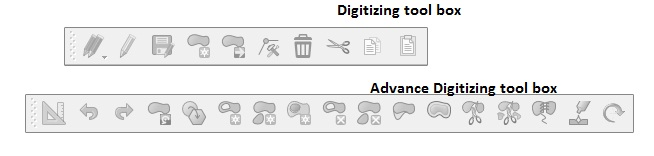
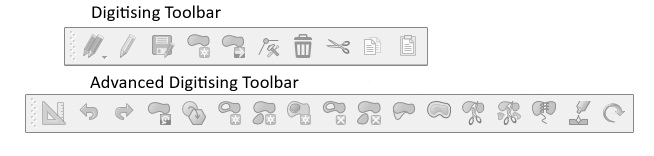
update to module 3 digitisation subchapter

diff --git a/content/Modul_3/en_qgis_digitalisation.md b/content/Modul_3/en_qgis_digitalisation.md
@@ -1,7 +1,5 @@
 # Digitisation
 
-
-
 __🔙[Back to Homepage](/content/intro.md)__
 
 
@@ -30,50 +28,88 @@ digitization, enabling further analysis and integration with other geospatial da
 a valuable asset for spatial analysis and mapping.
 
 :::{card}
-### Real world Scenario
+__Real world Scenario__
 
+There has been a flood in a village following heavy rains. 
 There is a flood relief operation in a village. To assess the needs of the household and the impact on the 
 infrastructure, you are tasked to make an overview map of the region and mark the flood impacted buildings and 
 roads. However, there are no datasets with the buildings or roads available. For the map, you will have to 
-create two new layers with the road network and the buildings. 
+create two new layers with the road network and the buildings. However, there is recent satellite imagery available. With these images, you can create vector layers representing the key infrastructure, such as buildings and roads. Once you have created the layers, you can create a preliminary overview map of the village. This map will be given out to community members and voluntaries on the ground to map out the damaged infrastructure. This information can subsequently be used to enrich the data and create an flood impact assessement map. 
+
+<!--ADD PICTURES-->
 
 :::
 
+:::{card} 
+__Real World Scenario__
+
+The first thing you do is locate the village using GPS-coordinates that you enter in the bottom right corner of 
+the QGIS window. 
+Thankfully, the process of digitising is relatively easy since there is a recent satellite image provided by 
+Microsoft Bing. You can load the satellite image using the __QuickMapServices__ and searching and adding the 
+`Bing Aerial` Basemap. 
+You can see the buildings and roads on the satellite image. The next step will be to create new layers: one for 
+the roads and one for the buildings.
+
+:::
+
+:::{card}
+
+__Real World Scenario__
+
+With the new layers, you are ready to trace the buildings and roads in the new layers. 
+You already have some knowledge about the condition of the roads (e.g., the road surface, quality, and if it is 
+flooded) and the condition of the houses (e.g., if it is affected by a flood, if it has multiple stories, ...). 
+This is useful information that can be stored in the additional attributes in the data table. 
+
+<!--INSERT: Picture of this step-->
+
+:::
 
 ### Digitisation toolbars
+
+```{figure} /fig/Activate_digitizing_toolbox.png
+---
+width: 300px
+align: left
+name: Activate digitising Toolbar 
+---
+The Digitisation Toolbar in QGIS 3.36.
+```
+
+
 
 Digitising is done with the `Digitizing Toolbar` and on the map canvas. 
 First, you need to check if the `Digitizing Toolbar` is activated. To do that 
 * Click on the `View` tab in the menu bar and click `Toolbars`. Check if the `Digitizing` and `Advanced Digitizing` toolbar is activated.
 
-::::{grid} 2
-:::{grid-item-card}  Activate `Digitizing Toolbox`
+
 First, you need to check if the `Digitizing Toolbox` is activated. To do that 
 1.  Click on the `View` tab in the menu bar and click `Toolbars`. Check if the `Digitizing` and `Advanced Digitizing` toolbox is activated.
 
-2. A tool box like this should appear on top of the QGIS interface
- 
- ![](/fig/Toolbox.png)
- 
-:::
-:::{grid-item-card} How to: 
 
-```{figure} /fig/Activate_digitizing_toolbox.png
----
-width: 300px
-name: 
-align: center
-name: Activate digitising Toolbar 
----
-The Digitisation Toolbar in QGIS 3.36.
-```
-:::
-::::
+2. A tool box like this should appear on top of the QGIS interface
+
+<br>
+
+<br>  
+
+<br>  
+
 
 The digitisation toolbar offers the basic tools to create, save, and edit features. However, for everything that 
-goes above just creating new features and deleting features, the Advanced Digitalization toolbar is needed. 
+goes above just creating new features and deleting features, the Advanced Digitalization toolbar is needed (see {numref}`digitising_toolbar`). 
 The Advanced Digitalization toolbar allows you to move features, delete parts of features, and much more. All 
 functions are listed in the two tables below.
+
+```{figure} /fig/Toolbox.png
+---
+width: 700 px
+name: digitising_toolbar
+align: center
+---
+Digitizing Toolbar in QGIS 3.36
+```
 
 :::{dropdown} Digitalization Toolbar
 |Tool|Purpose|Tool|Purpose|
@@ -112,30 +148,30 @@ functions are listed in the two tables below.
 :::
 
 
-:::{card} 
-### Real World Scenario
-
-The first thing you do is locate the village using GPS-coordinates that you enter in the bottom right corner of 
-the QGIS window. 
-Thankfully, the process of digitising is relatively easy since there is a recent satellite image provided by 
-Microsoft Bing. You can load the satellite image using the __QuickMapServices__ and searching and adding the 
-`Bing Aerial` Basemap. 
-You can see the buildings and roads on the satellite image. The next step will be to create new layers: one for 
-the roads and one for the buildings.
-
-:::
-
 ## Creating new datasets
 
 To digitise new data, you always have to start with creating the dataset before filling it with digitised data. 
 Keep in mind that one layer can only contain one type of geometry: either points, lines, or polygons. When you 
 create a dataset, you will have to choose the type of geometry. Additionally, you can add further columns with 
-attributes to add more data to the data table. Further information can be...
+attributes to add more data to the data table. 
+
+:::{admonition} Now it's your turn!
+:class: note
+
+Think of a spatial dataset you could need in your humanitarian operations. What kind of additional information is 
+useful? How would you collect it? This could range from type of road, crops planted, type of vegetation or social 
+indicators. You can discuss in groups and write it down on paper or add it to a digital whiteboard. 
+
+<!--Insert graphic-->
+
+:::
+
 <!--ADD meaningful example for IM-->
 
-:::{card} 
-### Video: How to create a new layer
+:::{dropdown} Video: How to create a new dataset
+
 <video width="100%" controls src="https://github.com/GIScience/gis-training-resource-center/raw/main/fig/qgis_create_layer.mp4"></video>
+
 :::
 
 1. `Layer` --> `Create Layer` -> `New GeoPackage Layer` or `New Shapefile Layer`
@@ -146,21 +182,24 @@ attributes to add more data to the data table. Further information can be...
 6. CRS dropdown: Select the EPSG/CRS you want to set for the new layer. By default, the QGIS selects the project CRS. If you want to change the CRS click on ![](/fig/mIconProjectionEnabled.png).
 7. Under `New Field` you can add columns to the new layer. Here you can set up what other type of data you want to collect in this dataset.
     * `Type`: Select the data type the column will have e.g. `Text`, `Whole number`, `Decimal Number`, `Date`.
-    ```{Note} 
-    The number of options depends on the data format the layer will have. GeoPackage, for example, offers far more options than the Shapefile format.
-    ```
     * Click on ![](/fig/mActionNewAttribute.png) to add the new column to the `Fields List`.
 8. Click `OK` to create the new data
+
+<!---   ```{Note} 
+    The number of options depends on the data format the layer will have. GeoPackage, for example, offers far more options than the Shapefile format.
+    ```
+    -->
 
 ```{figure} /fig/New_GeoPackage_Layer.png
 ---
 width: 500px
 name: Digitalisation Toolbar 
 align: center
-name: Digitalization Toolbar 
 ---
 The Layer Creation window in QGIS 3.36.
 ```
+
+<!--ADD: add an explanation of the Layer creation window?-->
 
 ```{attention} 
 An important concept to understand before starting to add data to datasets is, that, whenever you make changes 
@@ -176,18 +215,6 @@ is basically the same:
 
 ### Creating new data entries
 
-:::{card}
-
-### Real World Scenario
-
-With the new layers, you are ready to trace the buildings and roads in the new layers. 
-You already have some knowledge about the condition of the roads (e.g., the road surface, quality, and if it is 
-flooded) and the condition of the houses (e.g., if it is affected by a flood, if it has multiple stories, ...). 
-This is useful information that can be stored in the additional attributes in the data table. 
-
-<!--INSERT: Picture of this step-->
-
-:::
 
 1. Select the layer you want to add data to in the Layer panel.
 2. Go to the digitisation toolbar and click on ![](/fig/mActionToggleEditing.png) `Toggle Editing`. Make sure 
@@ -207,13 +234,13 @@ information about this feature to the different columns, based on the attribute 
 5.	Once you are done with digitalization ![](/fig/mActionSaveEdits.png) to save your edits.
 6.	Click again on ![](/fig/mActionToggleEditing.png) to end the editing mode.
 
+:::{dropdown} Video: How to create point data
 <video width="100%" controls src="https://github.com/GIScience/gis-training-resource-center/raw/main/fig/Creat_point_feature.mp4"></video>
-
-
+:::
 
 ```{figure} /fig/point_creation.png 
 ---
-width: 500px
+width: 750px
 name: Point creation
 align: center
 name: Point creation
@@ -224,14 +251,54 @@ Point creation.
 <!--REPLACE IMAGE showing a point creation window with more attributes and not just ID and type to show the 
 information you can add at this stage-->
 
-#### Creating line data
+```{admonition} Now it's your turn!
+
+Try digitising the RCRC branches in your country.
+
+1. Create a new point dataset.
+2. Add a [basemap](/content/Modul_2/en_qgis_basemap.md) (OSM or Bing Aerial, for example)
+3. Search the RCRC branches in your country on google maps.
+4. Once you have located the branches, right-click on a branch in google maps and click on the coordinates. The coordinates will be copied to your clipboard
+
+:::{figure} /fig/en_google_maps_rightclick_coords.png
+---
+width: 250 px
+align: right
+name: gmaps_rightclick_coords
+---
+:::
+
+5. Paste the coordinates into the search bar on the bottom left of the QGIS window. Select navigate to coordinates. The location will be marked by a red dot
+
+6. Enable the editing mode ![](/fig/mActionToggleEditing.png) in in your new layer.
+7. Click on ![](/fig/mActionCapturePoint.png)
+8. Add the point feature at the location that was indicated.
+9. Add the name of the RCRC branch.
+10. Click `Ok`. 
+11. Click on ![](/fig/mActionSaveEdits.png) to save your edits.
+12. Click on ![](/fig/mActionToggleEditing.png) to exit the editing mode. 
+
+```
+
+
+### Creating line and polygon layers
+
+The process of creating line or polygon layers is essentially the same as creating point data. The main difference is 
+that instead of only adding one point, line and polygon geometries require several points (vertices). Each point you 
+add is a vertext between two lines. In QGIS, you create lines and polygons by setting one point, and then another point 
+connected to the previously added point. To finish adding the feature use the <kbd>Right mouse botton</kbd>. 
+
+```{attention} 
+Remember to change the geometry type into lines if you want to create a new line layer.
+```
+
+::::{tab-set}
+
+:::{tab-item} __Creating line data__
 
 Creating line data works in the same way as creating point data (see above). First, you must create a new line 
 layer or use an existing one. 
 
-```{attention} 
-If you create a new line layer, remember to change the geometry type into lines.
-```
 1.	Select the line layer you want to add data to in the Layer panel
 2.	Go to the digitisation toolbar and click on![](/fig/mActionToggleEditing.png). Now, the layer is in the 
 editing mode.
@@ -246,8 +313,9 @@ edits.
 
 <video width="100%" controls src="https://github.com/GIScience/gis-training-resource-center/raw/main/fig/Creat_line_feature.mp4"></video>
 
+:::
 
-#### Creating polygon data
+:::{tab-item} __Creating polygon data__
 
 The creation of polygon layers works in the same way as for point and line data.
 
@@ -261,6 +329,9 @@ The creation of polygon layers works in the same way as for point and line data.
 
 <video width="100%" controls src="https://github.com/GIScience/gis-training-resource-center/raw/main/fig/qgis_digitize_add_feature.mp4"></video>
 
+:::
+
+::::
 
 ## Editing the Data
 
@@ -285,7 +356,8 @@ Note that this is only possible __before__ you save the changes.
 ```
 
 ::::{tab-set}
-:::{tab-item} Deleting features
+
+:::{tab-item} __Deleting features__
 
 1.	Select the layer you want to modify.
 2.	Go to the digitisation toolbar and click on![](/fig/mActionToggleEditing.png) `Toggle Editing`. 
@@ -301,7 +373,7 @@ Keep in mind that once you save the changes ![](/fig/mActionSaveEdits.png), you 
 
 :::
 
-:::{tab-item} Moving features
+:::{tab-item} __Moving features__
 
 There are multiple methods to move features. Here we show the method that works the same for point, line, and polygon features.
 To do this, you need the Advanced Digitisation Toolbox.
@@ -330,7 +402,7 @@ then click on the location where you want to move the vertex to.
 
 :::
 
-:::{tab-item} __Adding a ring to a polygon feature__
+:::{tab-item} __Adding rings to polygon features__
 
 A ring in QGIS is a part inside a polygon that is not part of the polygon. Image a polygon representing a lake. 
 The ring is an island in the lake. For a better understanding, watch the video below.
@@ -351,10 +423,30 @@ The ring is an island in the lake. For a better understanding, watch the video b
 
 ### Editing the attribute values
 
-Sometimes, you will have to edit the values in the columns of the attribute table. 
+Sometimes, you will have to edit the values in the columns of the attribute table. For example, the name of an administrative district is written incorrectly or differently, or a value has not been entered correctly. To do this, you will have to:
 
+::::{margin}
 
-## Digitisation Errors in QGIS
+```{tip}
+You can open the attribute table of the selected layer by pressing <kbd>F6</kbd>. 
+```
+
+::::
+
+1. Open the [attribute table](/content/Modul_2/en_qgis_attribute_table.md)
+2. Click on ![](/fig/mActionToggleEditing.png) to enter into the editing mode.
+3. Choose the field that you want to edit. 
+4. Enter the corrected value.
+5. Click on ![](/fig/mActionSaveEdits.png) to save your edits.
+6. Click on ![](/fig/mActionToggleEditing.png) again to exit the editing mode. 
+
+This process is called __"Data cleaning"__ and is important when performing data analysis or manipulating data 
+in any way. While collecting or digitising data, it is easy to make small mistakes, such as a wrong value, wrong 
+value type, or a spelling mistake. When performing anlyses, it is therefore important to investigate the 
+attribute table for inconsistencies or errors. If these errors are not cleaned, the results will be incorrect 
+and you might take the wrong conclusions!
+
+## Spatial Digitisation Errors in QGIS
 
 The accuracy of geodata is crucial for spatial analysis. Positional errors are inevitable when data are manually 
 digitised. The most common examples include undershooting and overshooting.  When your coordinates do not 
